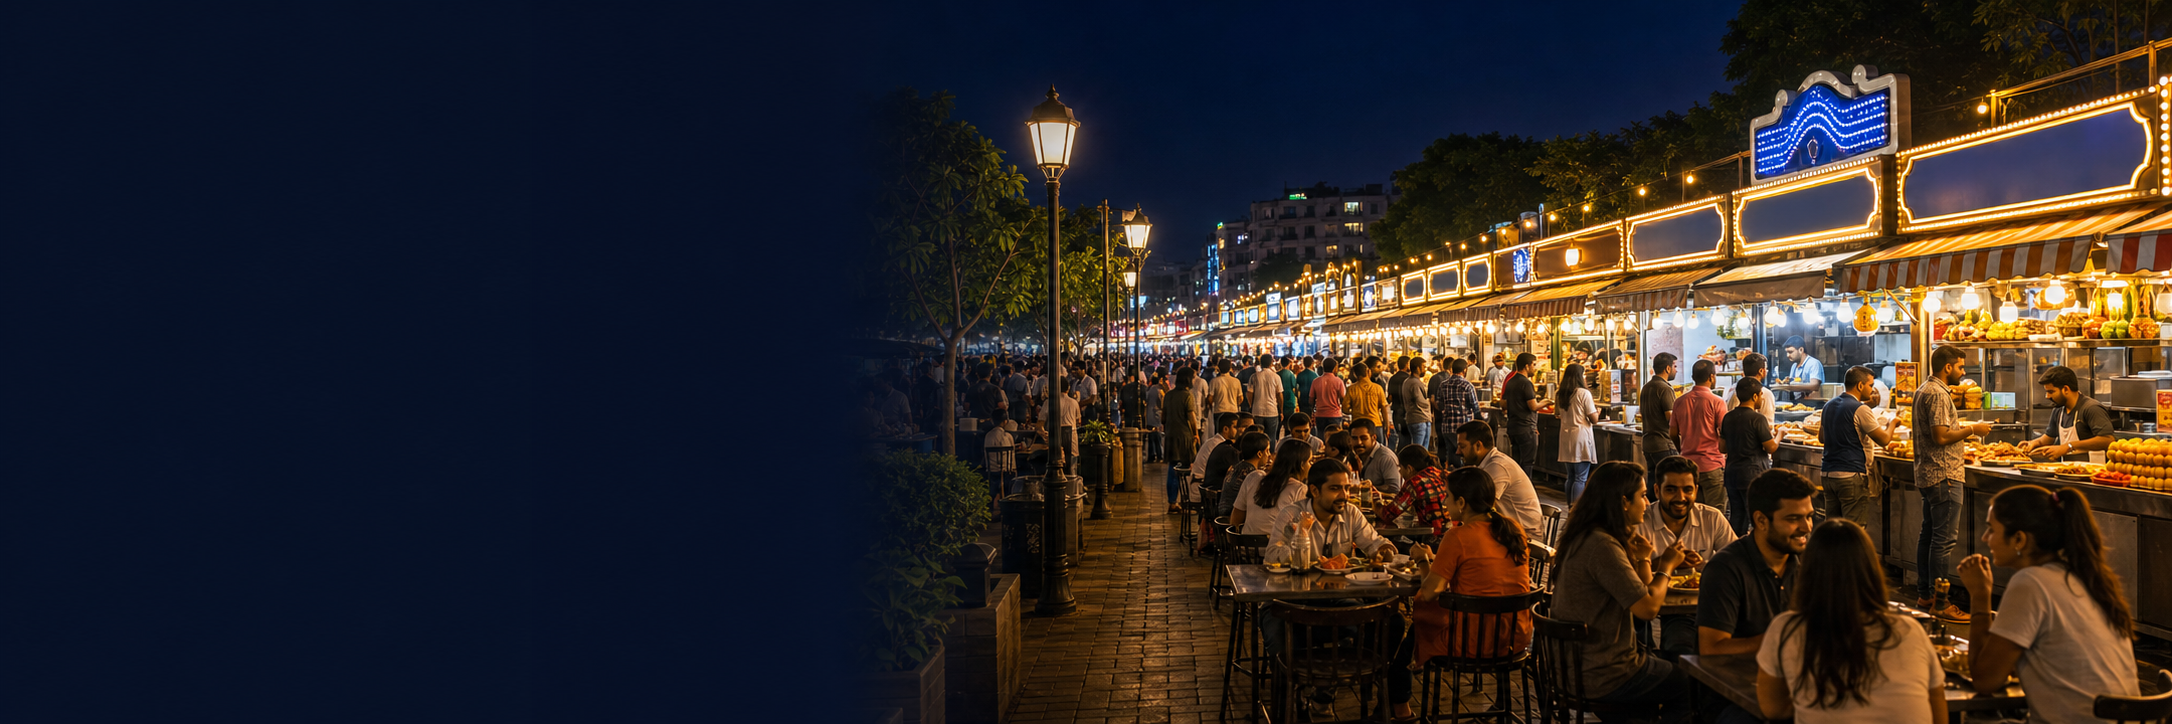
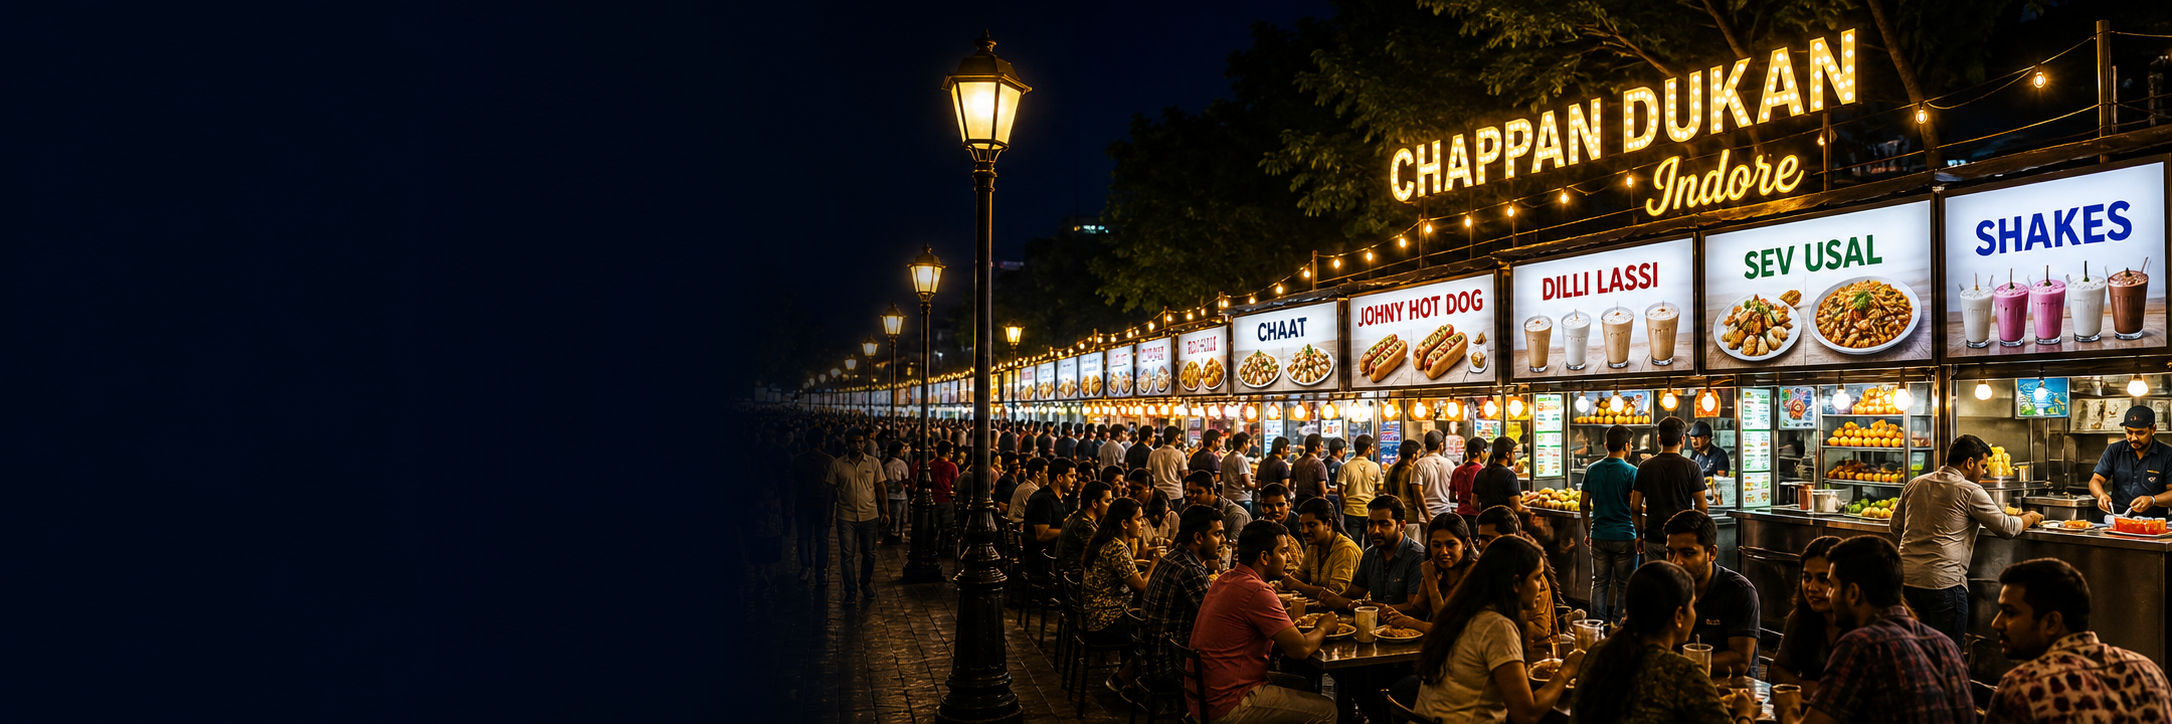
photos updated

diff --git a/public/UserDashboard.html b/public/UserDashboard.html
@@ -1374,10 +1374,10 @@
     }
 
     .bachat-storefront .hero-slide-local .shopping-hero-title {
-      width: min(560px, 46vw);
-      max-width: 560px !important;
+      width: min(640px, 48vw);
+      max-width: 640px !important;
       color: #fff !important;
-      font-size: clamp(34px, 3vw, 54px) !important;
+      font-size: clamp(34px, 3.15vw, 60px) !important;
       line-height: 1.05 !important;
       white-space: normal;
     }
@@ -1389,24 +1389,26 @@
     .bachat-storefront .hero-slide-local .shopping-hero-copy {
       max-width: 570px !important;
       color: rgba(255, 255, 255, 0.92) !important;
-      font-size: clamp(15px, 1.15vw, 19px) !important;
-      line-height: 1.52 !important;
+      font-size: clamp(14px, 1.05vw, 17px) !important;
+      line-height: 1.45 !important;
     }
 
     .bachat-storefront .hero-slide-local .hero-trust-row {
-      width: min(560px, 46vw);
+      width: min(500px, 40vw);
+      flex-wrap: nowrap;
       gap: 12px;
-      margin-top: 24px;
+      margin-top: 18px;
     }
 
     .bachat-storefront .hero-slide-local .hero-trust-item {
       grid-template-columns: 34px minmax(0, 1fr);
       min-width: 0 !important;
-      width: 166px !important;
+      width: 148px !important;
+      box-sizing: border-box;
       border-color: rgba(255, 255, 255, 0.12);
       background: rgba(255, 255, 255, 0.1);
       color: #fff;
-      padding: 12px 14px !important;
+      padding: 11px 12px !important;
       backdrop-filter: blur(10px);
     }
 
@@ -1430,7 +1432,7 @@
       display: inline-flex;
       align-items: center;
       gap: 9px;
-      margin-bottom: 20px;
+      margin-bottom: 14px;
       border: 1px solid rgba(255, 255, 255, 0.28);
       border-radius: 999px;
       background: rgba(7, 21, 45, 0.54);
@@ -1449,10 +1451,14 @@
     }
 
     .bachat-storefront .hero-slide-local .hero-local-actions {
-      display: flex;
+      display: none;
       flex-wrap: wrap;
       gap: 14px;
-      margin-top: 22px;
+      margin-top: 18px;
+    }
+
+    .bachat-storefront .hero-slide-local > .max-w-3xl > .hero-primary-cta {
+      display: none;
     }
 
     .bachat-storefront .hero-slide-local .hero-primary-cta,
@@ -1461,7 +1467,7 @@
       min-width: 190px;
       justify-content: center;
       border-radius: 11px;
-      padding: 15px 24px;
+      padding: 14px 24px;
       font-size: 16px;
       font-weight: 950;
     }
@@ -1483,7 +1489,7 @@
     .bachat-storefront .hero-slide-actions {
       background:
         linear-gradient(90deg, rgba(248, 251, 255, 0.92) 0%, rgba(248, 251, 255, 0.7) 36%, rgba(248, 251, 255, 0.08) 56%, rgba(248, 251, 255, 0) 72%),
-        url("/assets/bachat-actions-hero.png") center center / cover no-repeat,
+        url("/assets/bachat-actions-hero.png") right center / auto 92% no-repeat,
         linear-gradient(100deg, #f8fbff 0%, #eef7ff 48%, #dcefff 100%);
     }
 
@@ -3270,7 +3276,7 @@
                       <span><strong>Trusted</strong>Local Shops</span>
                     </div>
                   </div>
-                  <a href="#browse-section" data-section="browse-section" class="hero-primary-cta">Shop Now <span aria-hidden="true">›</span></a>
+                  <a href="#browse-section" data-section="browse-section" class="hero-primary-cta">Get Best Price <span aria-hidden="true">›</span></a>
                 </div>
               </article>
 
